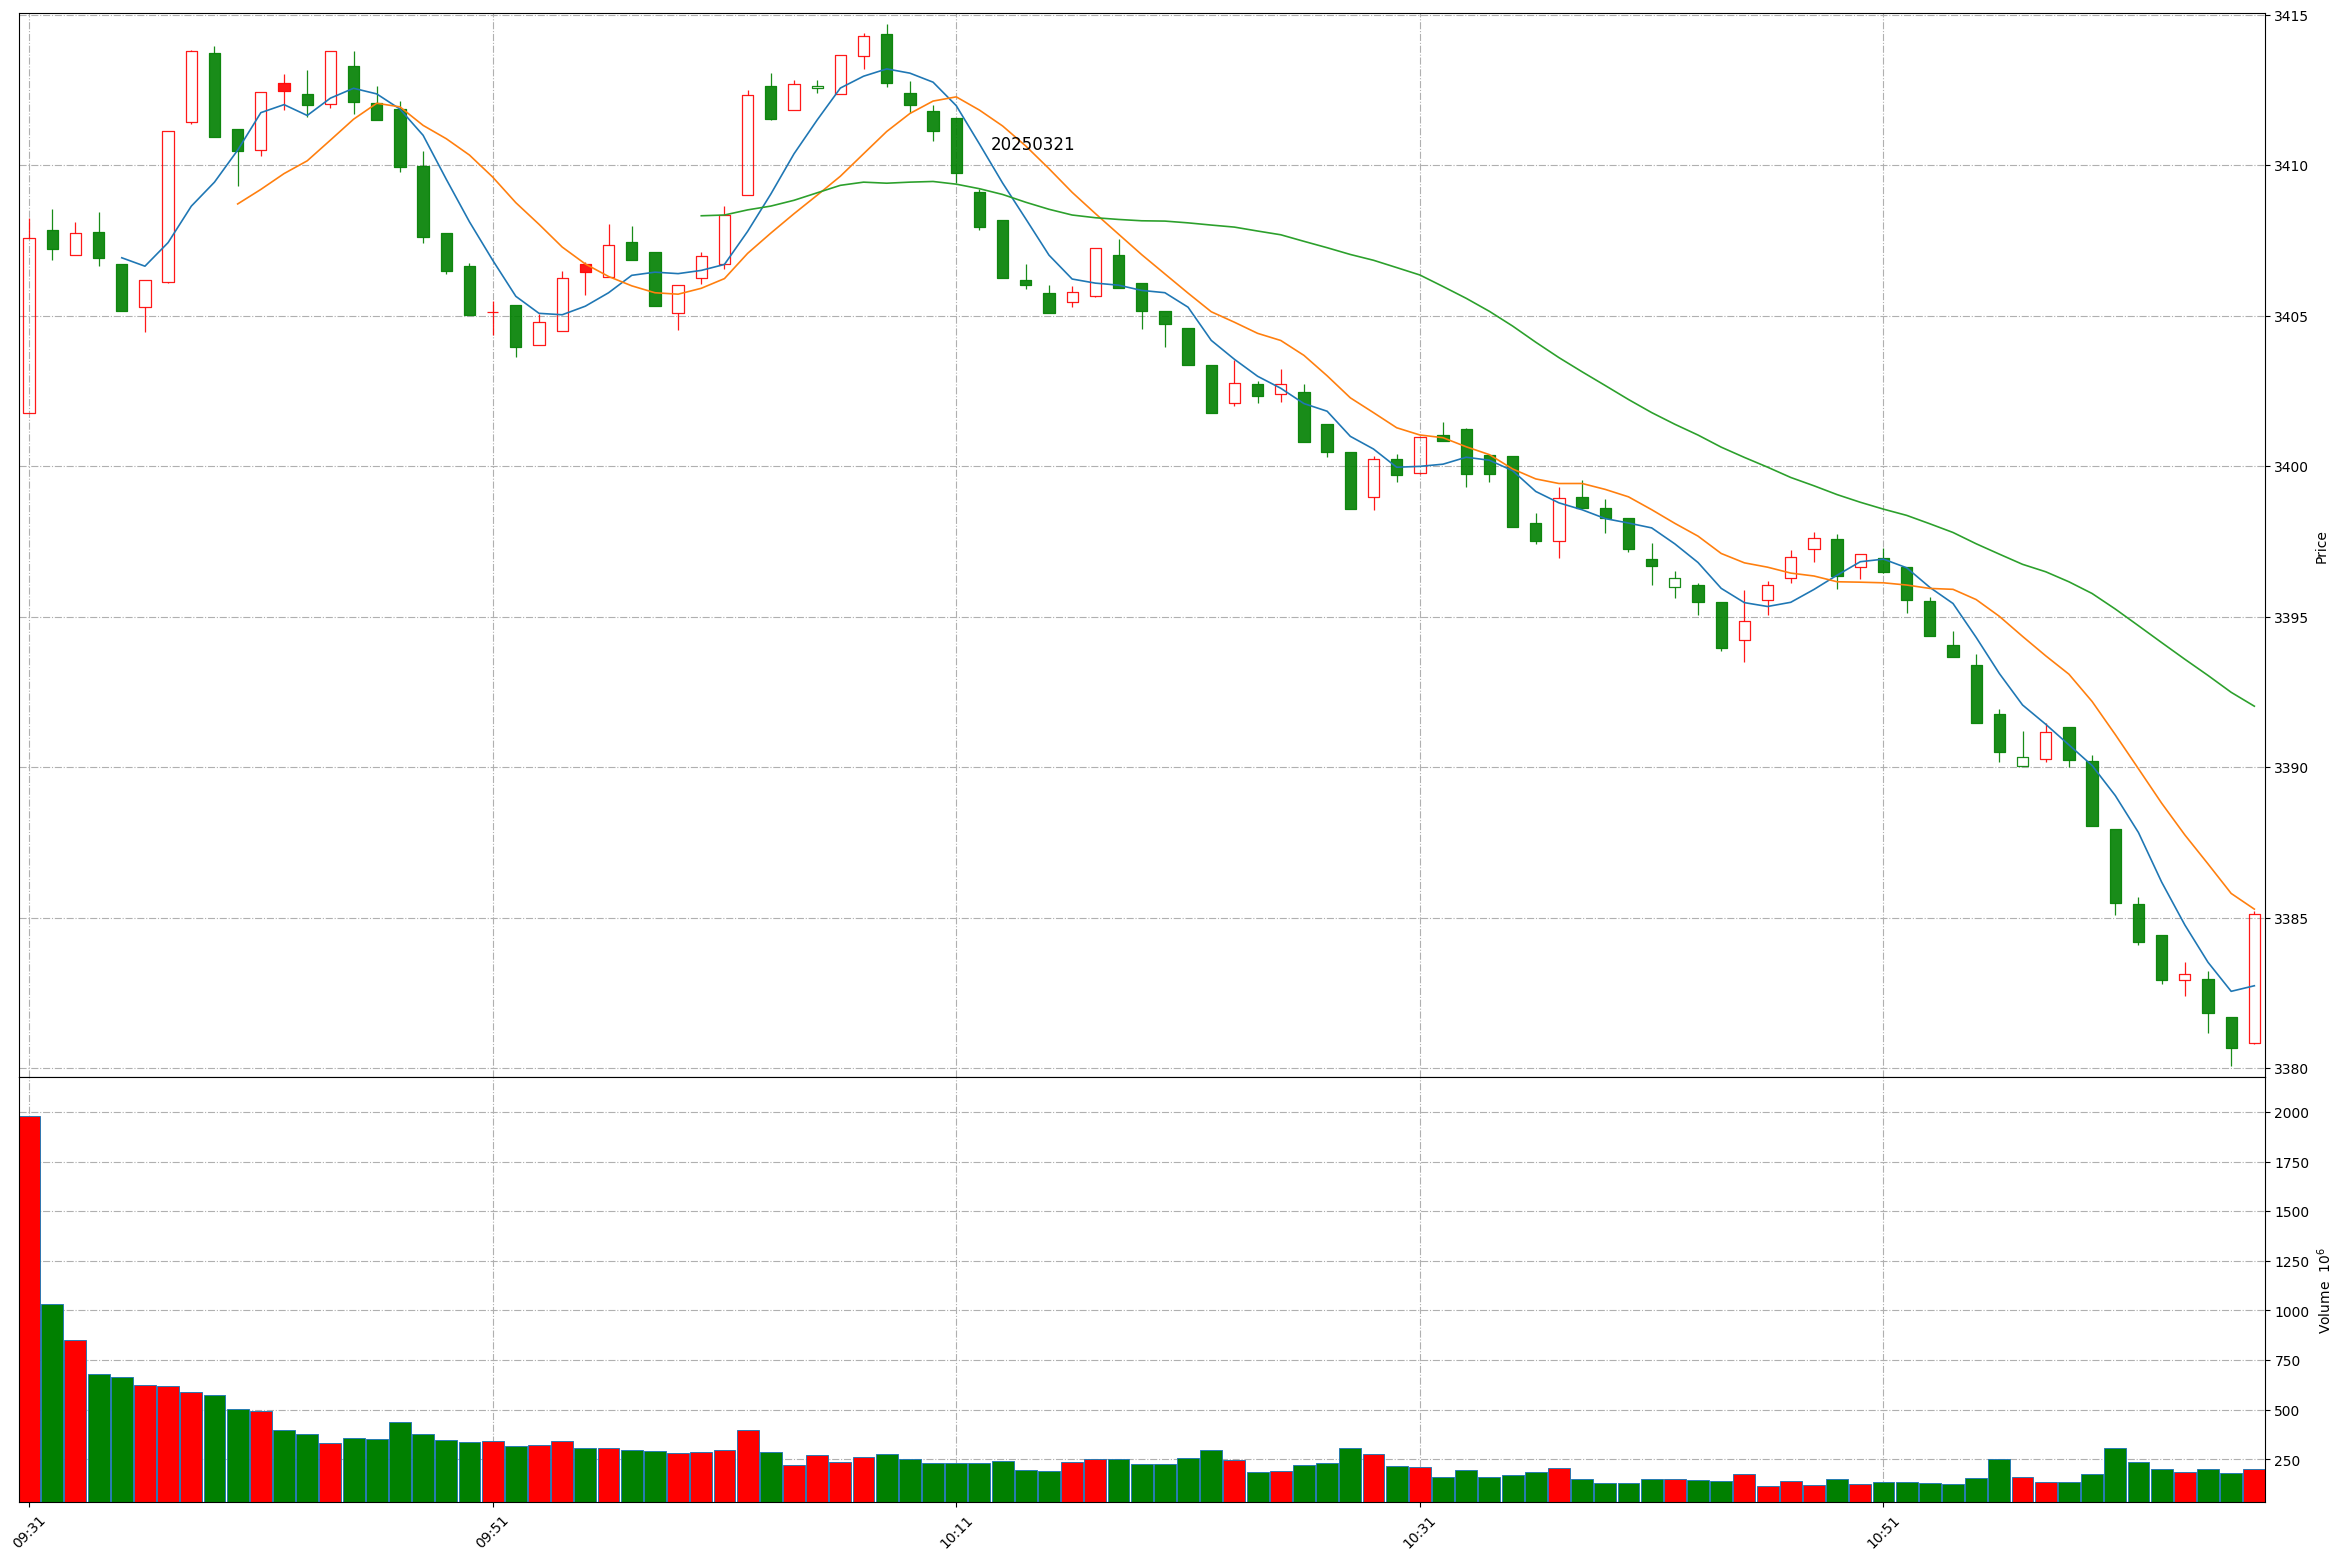
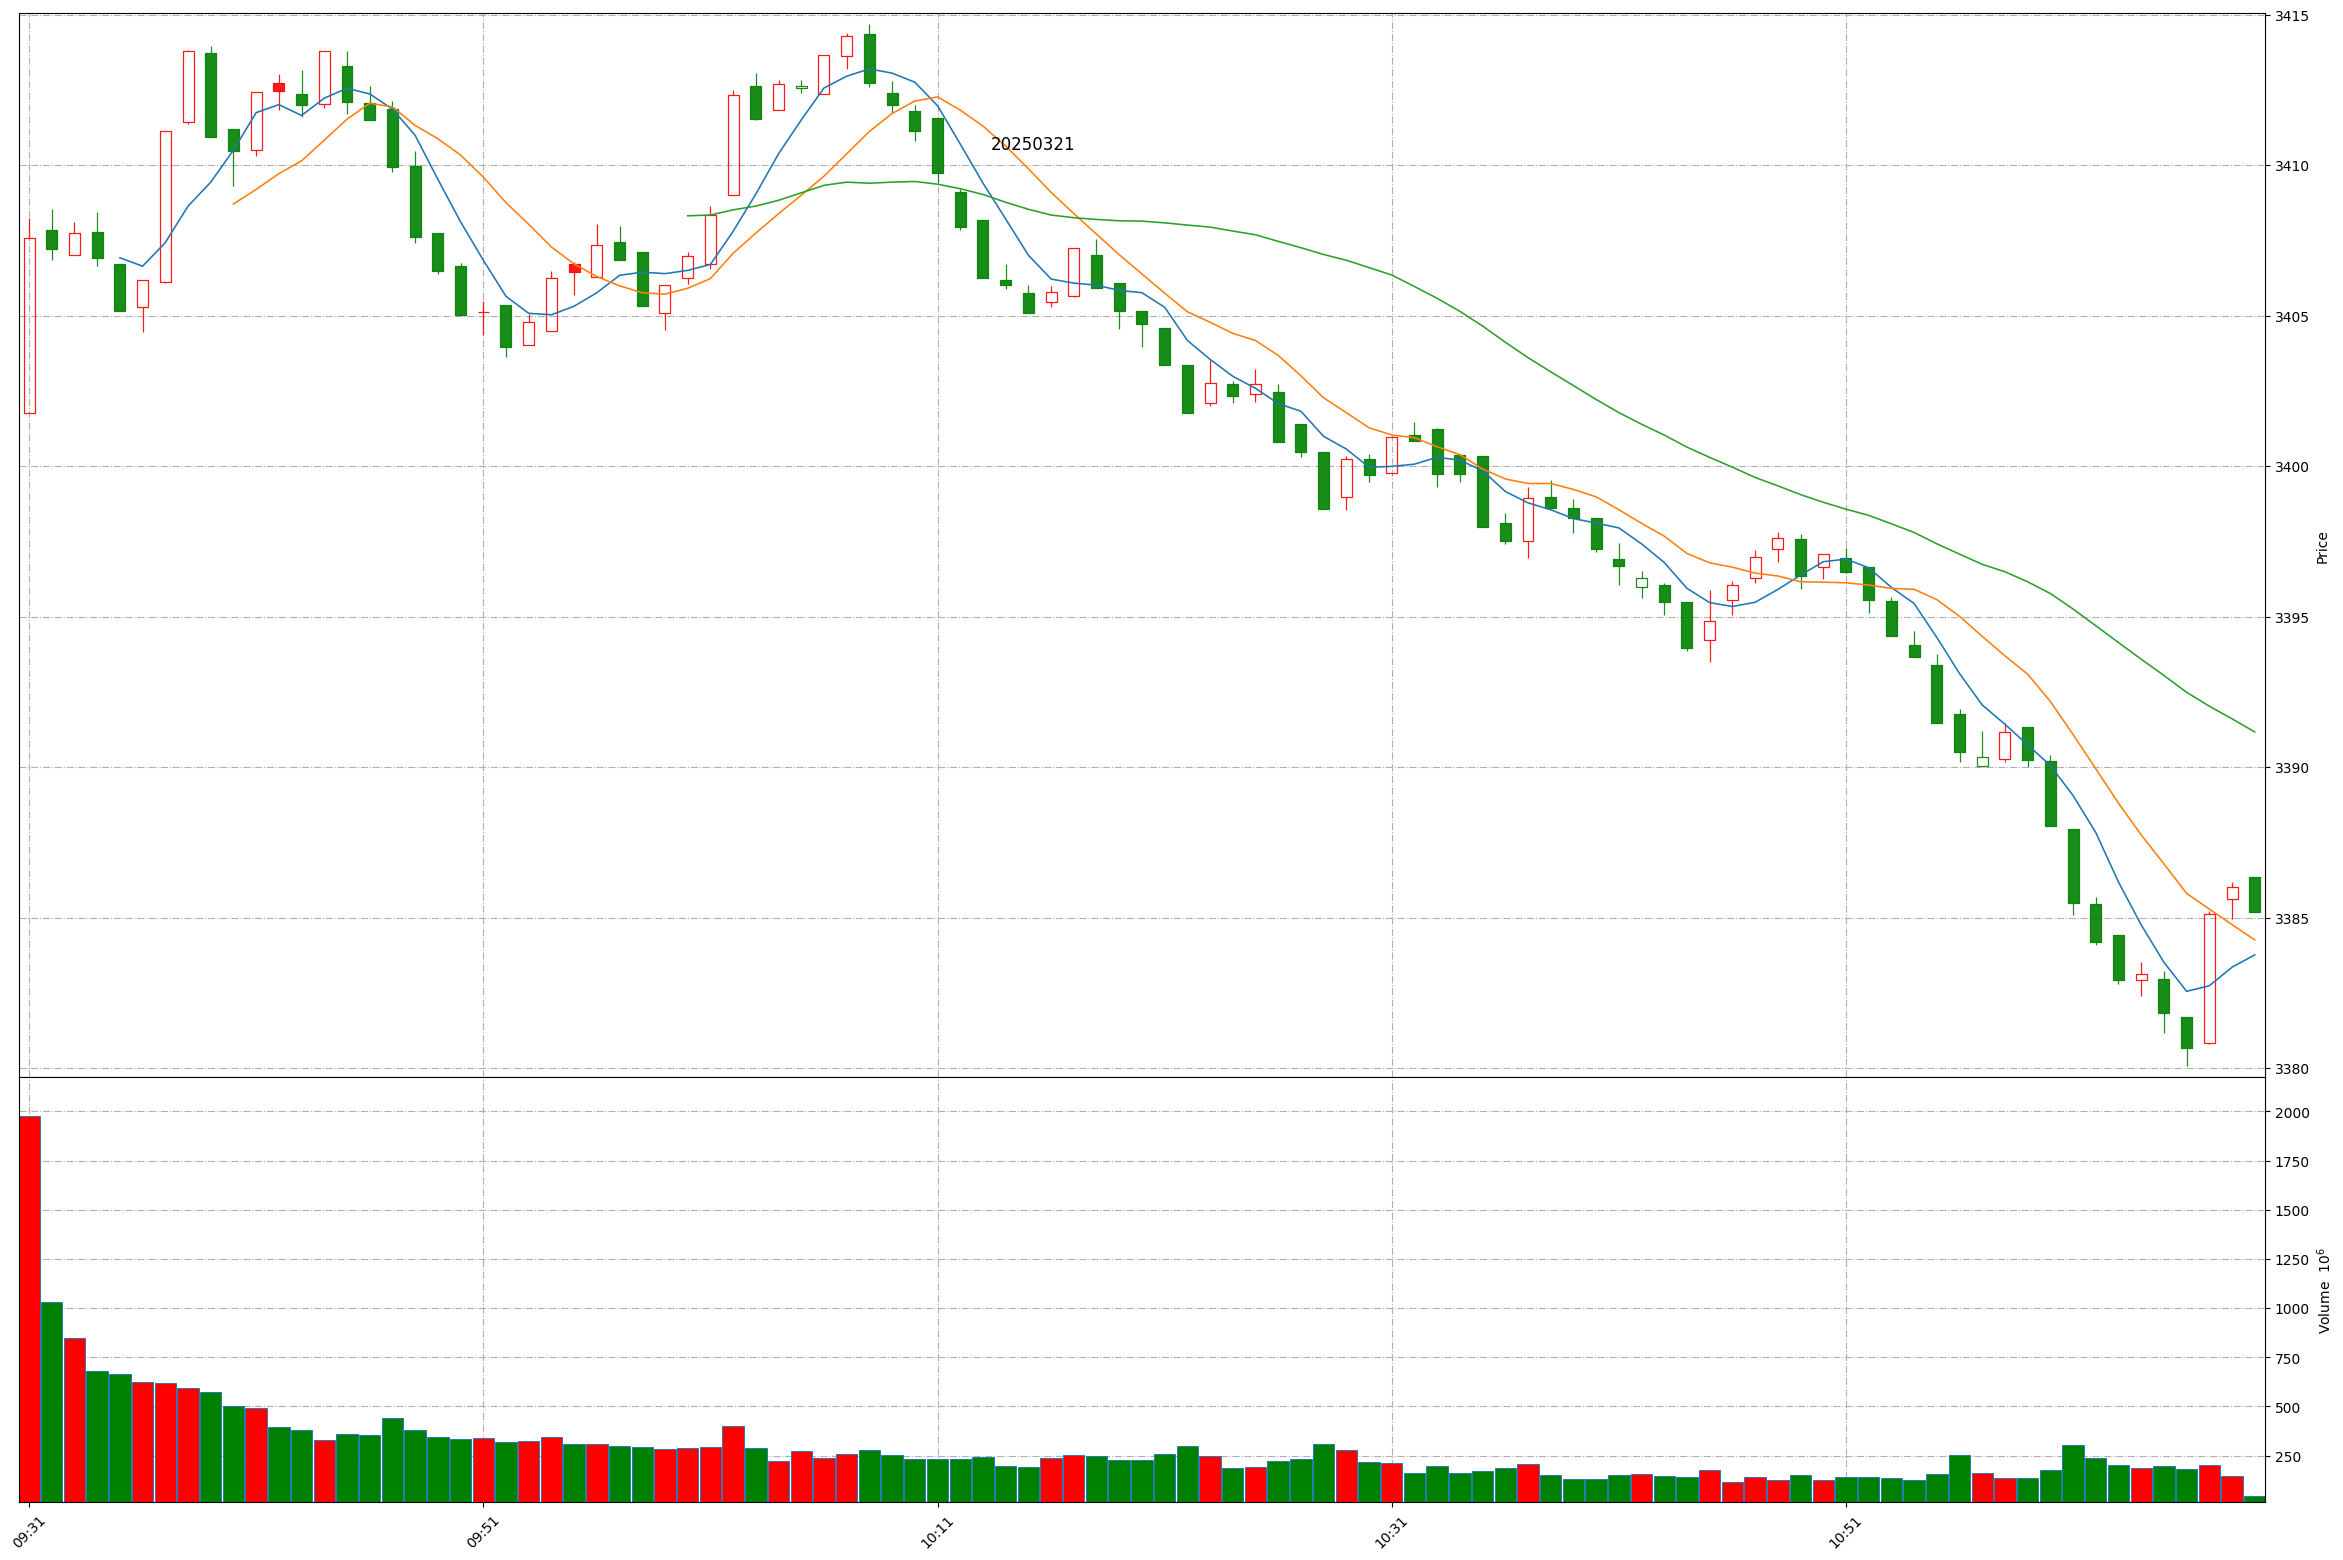
Github action update at 2025-03-21 11:08:42.

Changed region(s): [[0.0312, 0.0, 0.9659, 0.6769], [0.0312, 0.8615, 0.9659, 0.9846], [0.5608, 0.1538, 0.592, 0.1846]]

diff --git a/README.md b/README.md
@@ -1,11 +1,11 @@
 
 # Daily-A-share-market-quotes 每日 A 股指数（5min 更新）- 20250321
 
-### 上证指数 20250321 11:7
+### 上证指数 20250321 11:8
 ![](./fig/2025/3/20250321-sh000001.png)
 
-### 深证成指 20250321 11:7
+### 深证成指 20250321 11:8
 ![](./fig/2025/3/20250321-sz399001.png)
 
-### 北证50 20250321 11:7
+### 北证50 20250321 11:8
 ![](./fig/2025/3/20250321-bj899050.png)
